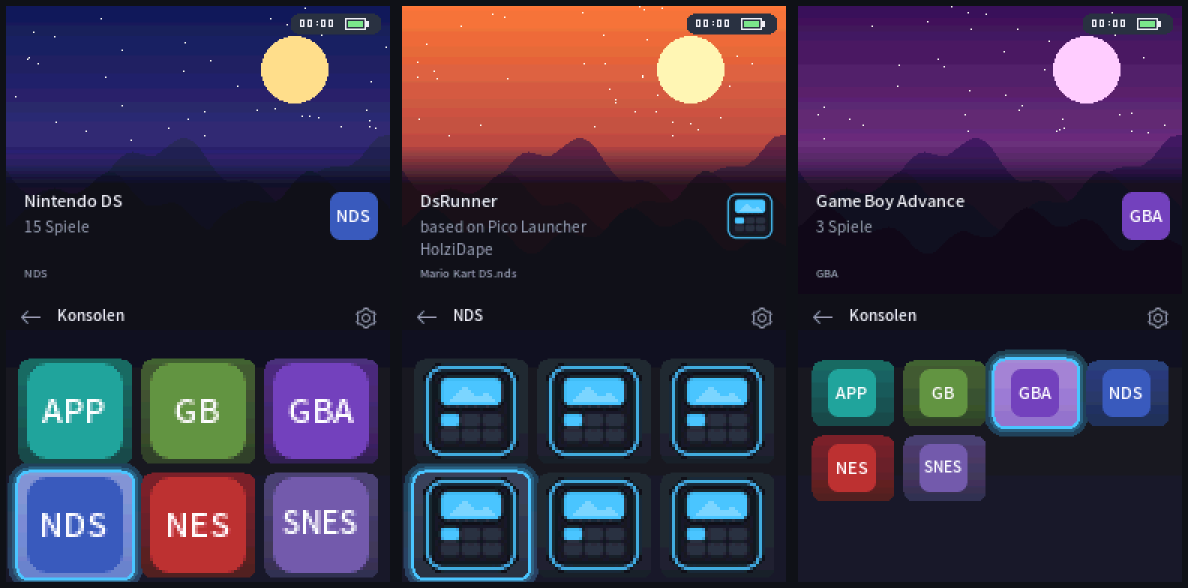
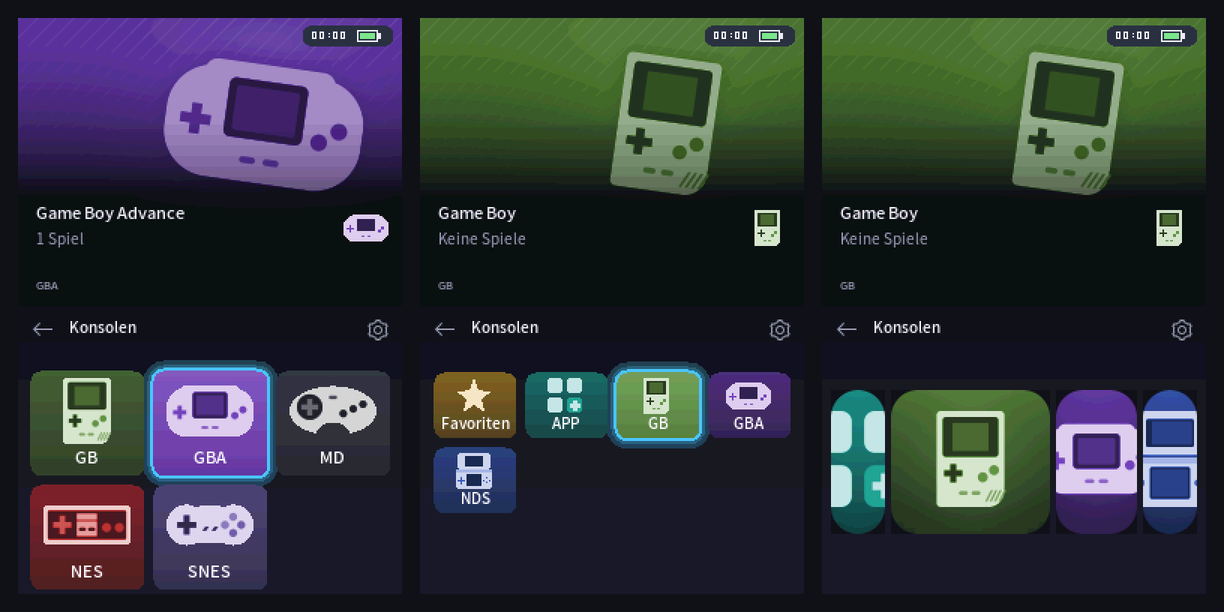
README for everyone: shorter, clearer steps, new screenshot
The README now reads as a guide for any DS user: what DsRunner does, download,
installation, other consoles, controls, game pictures, settings, update and a short
troubleshooting list. Technical details (loader patches, emulator licenses, hotkey
internals) stay in the linked docs. The screenshot shows the console level with the
built-in console pictures in all three views.

Claude-Session: https://claude.ai/code/session_018ba2i77rK9QaTUSsETPJXV

diff --git a/README.md b/README.md
@@ -1,103 +1,82 @@
 # DsRunner
 
-Ein moderner Launcher für den **Nintendo DS Lite** mit der Flashkarte **M3 DS Real**. Er startet beim Einschalten automatisch und zeigt deine Spiele in einem dunklen Kachel-Design, mit großen Artworks auf dem oberen Bildschirm. Spiele startet DsRunner über [Pico Loader](https://github.com/LNH-team/pico-loader).
+Ein moderner Launcher für den **Nintendo DS** (getestet auf dem DS Lite mit der Flashkarte **M3 DS Real**). DsRunner startet beim Einschalten automatisch und zeigt deine Spiele in einem dunklen Kachel-Design: erst die Konsolen, dann ihre Spiele, mit großen Bildern auf dem oberen Bildschirm. Gestartet werden die Spiele über [Pico Loader](https://github.com/LNH-team/pico-loader).
 
-![DsRunner: Konsolen, Spiele und 4×3-Raster](docs/images/DsRunner.png)
+![DsRunner: Konsolen-Ebene im 3×2-Raster, im 4×3-Raster und im Coverflow](docs/images/DsRunner.png)
 
-<sub>Screenshots aus dem Emulator, Artworks sind Testbilder.</sub>
+<sub>Screenshots aus dem Emulator.</sub>
 
 ## Funktionen
 
-- **Startet automatisch** beim Einschalten des DS, ohne Umweg über ein anderes Menü
-- **Zwei Ebenen:** erst die Konsolen (NDS, GBA, …), dann deren Spiele
-- **Drei Ansichten** mit passendem Bildstil: große Kacheln im Raster 3×2 mit vereinfachten Cover-Bildern, kleine Kacheln im Raster 4×3 mit klaren Pixel-Icons und die **CoverFlow** mit den echten Covern. Konsolen in ihrer eigenen Farbe
-- **Artwork oben** für jede Konsole und jedes Spiel, mit weichem Überblenden
-- **Spielanzahl** pro Konsole und Sortierung nach **zuletzt gespielt**
-- **Favoriten** mit X, gesammelt in der Kachel „★ Favoriten“
-- **Weiterspielen** mit START: das zuletzt gespielte Spiel direkt von der Konsolen-Ebene starten
-- Uhr (abschaltbar) und Akkuanzeige, Oberfläche auf Deutsch
-- **GBA und weitere Konsolen** (NES, Game Boy, Master System, Game Gear, Mega Drive, SNES, PC Engine) über Emulatoren, die DsRunner selbst findet. Die Emulatoren für GBA, NES, Game Boy und SNES sind im Paket enthalten; eigene Konsolen über `systems.json`
-- **Cheats** über `usrcheat.dat`
-- **Zurück zu DsRunner aus dem Spiel:** L+R+Unten+B 2 Sekunden halten, Tasten einstellbar (M3-Paket, [Hinweise](#zurück-zu-dsrunner-aus-einem-spiel))
+- **Startet automatisch** beim Einschalten, ohne Umweg über ein anderes Menü (M3 DS Real)
+- **Konsolen und Spiele:** erst NDS, GBA, NES & Co. als Kacheln mit eigenem Bild, dann die Spiele der Konsole
+- **Drei Ansichten:** große Kacheln (3×2), kleine Kacheln (4×3) und Coverflow
+- **Bilder für jedes Spiel** auf dem oberen Bildschirm und in den Kacheln, automatisch geladen mit dem PC-Programm [DsRunner Art](#bilder-für-die-spiele)
+- **Andere Konsolen:** GBA, NES, Game Boy und SNES laufen sofort, die Emulatoren sind im Paket. Master System, Game Gear, Mega Drive und PC Engine mit einem zusätzlichen Download
+- **Favoriten** (Taste X), **zuletzt gespielt** als Sortierung und **Weiterspielen** mit START
+- **Zurück zu DsRunner aus dem Spiel**, ohne den DS auszuschalten
+- Cheats über `usrcheat.dat`, Uhr und Akkuanzeige, Oberfläche auf Deutsch
 
 ## Download
 
 **[⬇ Neueste Version herunterladen](https://github.com/HolziDape/DsRunner/releases/latest)**
 
-Dort gibt es diese Dateien:
-
-| Datei | Für wen |
+| Datei | Wofür |
 |---|---|
-| **`DsRunner_M3DSReal.zip`** | **M3 DS Real**: fertiges Paket für die SD-Karte, inklusive Autostart, Pico Loader (mit Rückkehr aus Spielen) und den [Emulatoren](#emulatoren-für-andere-konsolen) für GBA, NES, Game Boy und SNES |
-| `DsRunner.zip` | andere Flashkarten, siehe [unten](#andere-flashkarten) (mit denselben Emulatoren) |
-| `DsRunnerArt.exe` | PC-Programm für Windows, lädt die [Artworks](#artworks) auf die Karte |
+| **`DsRunner_M3DSReal.zip`** | **M3 DS Real:** komplettes Paket für die SD-Karte, mit Autostart und Emulatoren |
+| `DsRunner.zip` | andere Flashkarten, siehe [unten](#andere-flashkarten) |
+| `DsRunnerArt.exe` | PC-Programm für Windows, lädt die Bilder für deine Spiele auf die Karte |
 
-Was sich in welcher Version geändert hat, steht im **[CHANGELOG](CHANGELOG.md)**. Welche Version auf deiner Karte läuft, siehst du unten rechts im Menü „Anzeige“ (Zahnrad oben rechts).
+Was in welcher Version neu ist, steht im **[Changelog](CHANGELOG.md)**. Die installierte Version siehst du in DsRunner unten rechts im Menü „Anzeige“ (Zahnrad oben rechts).
 
 ## Installation (M3 DS Real)
 
-1. **SD-Karte sichern.** Mindestens alle Spielstände (`.sav`), den Ordner `SYSTEM` und die Datei `SRESET.DAT`. Damit kommst du jederzeit zu YSMenu zurück.
+1. **SD-Karte sichern.** Mindestens alle Spielstände (`.sav`), den Ordner `SYSTEM` und die Datei `SRESET.DAT`. Damit kommst du jederzeit zu deinem alten Menü (z. B. YSMenu) zurück.
 2. `DsRunner_M3DSReal.zip` entpacken.
 3. Den **Inhalt** des entpackten Ordners ins Hauptverzeichnis der SD-Karte kopieren und vorhandene Dateien ersetzen.
-4. Spiele in Ordner pro Konsole legen (siehe nächster Abschnitt).
+4. Deine Spiele in einen Ordner pro Konsole unter `/Games` legen (siehe unten).
 5. Karte in den DS stecken und einschalten. DsRunner startet von selbst.
 
 ### Ordner für die Spiele
 
-DsRunner zeigt die Unterordner von `/Games` als Konsolen an:
+Jeder Unterordner von `/Games` erscheint als eine Konsole:
 
 ```
 SD-Karte
 ├── Games
-│   ├── NDS      ← .nds-Spiele
-│   ├── GBA      ← .gba-Spiele
-│   ├── NES, GB, GBC, SNES  ← Spiele anderer Konsolen (Emulatoren sind dabei)
-│   ├── SMS, GG, MD, PCE    ← brauchen einen Emulator, den du selbst herunterlädst (siehe unten)
-│   └── Apps     ← Homebrew-Programme (eigene .nds-Programme, keine Spiele)
-├── _dsrunner    ← Emulatoren (aus dem Paket), Artworks, Spielverlauf und Favoriten
+│   ├── NDS     ← DS-Spiele (.nds)
+│   ├── GBA     ← Game-Boy-Advance-Spiele (.gba)
+│   ├── NES     ← weitere Konsolen, siehe Tabelle unten
+│   ├── GB
+│   ├── SNES
+│   └── Apps    ← Homebrew-Programme
+├── _dsrunner   ← Emulatoren, Bilder, Favoriten (legt das Paket bzw. DsRunner an)
 ├── _nds
-├── _pico
-└── ...
+└── _pico
 ```
 
-- Ordner mit den Namen `NDS`, `GBA`, `GBC`, `GB`, `NES`, `SNES`, `SMS`, `GG`, `MD`, `PCE` und `Apps` bekommen eine eigene Farbe. Jeder andere Ordner erscheint ebenfalls als Kachel.
-- Gibt es keinen Ordner `/Games`, zeigt DsRunner einfach das Hauptverzeichnis der Karte. Einen anderen Ordner stellst du in `/_pico/settings.json` ein (`libraryPath`).
+- Die Ordnernamen `NDS`, `GBA`, `GB`, `GBC`, `NES`, `SNES`, `SMS`, `GG`, `MD`, `PCE` und `Apps` erkennt DsRunner und zeigt sie mit passendem Bild und eigener Farbe. Andere Ordner erscheinen als normale Kachel.
+- Ohne Ordner `/Games` zeigt DsRunner das Hauptverzeichnis der Karte. Einen anderen Ordner kannst du in den [Einstellungen](#einstellungen) wählen.
 
-### Emulatoren für andere Konsolen
+## Andere Konsolen (Emulatoren)
 
-DS-Spiele startet DsRunner selbst. Für alle anderen Konsolen braucht es einen Emulator (ein DS-Programm). DsRunner findet ihn automatisch, wenn er unter dem richtigen Namen auf der Karte liegt, am besten in **`/_dsrunner/emulators/`** (oder im Hauptverzeichnis). Ohne Emulator bleibt der Ordner der Konsole leer („Keine Spiele“).
+DS-Spiele startet DsRunner direkt. Für andere Konsolen braucht es einen Emulator, ein kleines DS-Programm. DsRunner findet ihn von selbst, wenn er in **`/_dsrunner/emulators/`** liegt. Fehlt der Emulator, bleibt der Ordner der Konsole leer („Keine Spiele“).
 
-**Schon im Paket enthalten** (in `/_dsrunner/emulators/`, in `DsRunner_M3DSReal.zip` und `DsRunner.zip`): die Emulatoren für **GBA, NES, Game Boy / Game Boy Color und SNES**. Du musst dafür nichts herunterladen.
+| Konsole | Ordner | Dateien | Emulator |
+|---|---|---|---|
+| Game Boy Advance | `GBA` | `.gba` | GBARunner2: **im Paket** |
+| NES | `NES` | `.nes`, `.fds` | nesDS: **im Paket** |
+| Game Boy / Color | `GB`, `GBC` | `.gb`, `.gbc` | GameYob: **im Paket** |
+| Super Nintendo | `SNES` | `.sfc`, `.smc` | SNEmulDS: **im Paket** |
+| Master System / Game Gear | `SMS`, `GG` | `.sms`, `.gg` | [S8DS](https://github.com/FluBBaOfWard/S8DS/releases) herunterladen, `S8DS.nds` aus der ZIP-Datei |
+| Mega Drive | `MD` | `.gen`, `.md` | `jEnesisDS.nds` aus dem [Virtual-Console-Add-on von TWiLight Menu++](https://github.com/DS-Homebrew/TWiLightMenu/releases) |
+| PC Engine | `PCE` | `.pce` | [NitroGrafx](https://github.com/FluBBaOfWard/NitroGrafx/releases) herunterladen, `NitroGrafx.nds` aus der ZIP-Datei |
 
-- **GBA-BIOS:** GBARunner2 läuft auch ohne, mit dem originalen BIOS laufen aber mehr Spiele. Das BIOS gehört Nintendo und darf nicht mitgeliefert werden. Wer es hat, legt es selbst als **`/_gba/bios.bin`** auf die Karte.
-- **Master System, Game Gear, Mega Drive, PC Engine:** Diese Emulatoren dürfen wir nicht mitliefern (ihre Autoren nennen keine Lizenz, die das erlaubt). Einmal selbst herunterladen (Links in der Tabelle) und nach `/_dsrunner/emulators/` kopieren.
-- Herkunft, Versionen und Lizenzen der mitgelieferten Emulatoren: `/_dsrunner/emulators/LIZENZEN.txt` im Paket bzw. [licenses/emulators](licenses/emulators/LIZENZEN.txt).
-
-| Konsole | Ordner | Dateien | Emulator | Dateiname auf der Karte | Im Paket |
-|---|---|---|---|---|---|
-| Game Boy Advance | `GBA` | `.gba` | [GBARunner2](https://github.com/Gericom/GBARunner2/releases) | `GBARunner2_arm7dldi_ds.nds`, BIOS optional als `/_gba/bios.bin` | ja (Release v20200812), ohne BIOS |
-| NES / Famicom | `NES` | `.nes`, `.fds` | [nesDS](https://github.com/DS-Homebrew/NesDS/releases) | `nesDS.nds` | ja (2.1) |
-| Game Boy / Game Boy Color | `GB`, `GBC` | `.gb`, `.gbc`, `.sgb` | [GameYob](https://github.com/DS-Homebrew/GameYob) | `GameYob.nds` | ja (aus TWiLight Menu++ v27.25.1) |
-| Master System / Game Gear | `SMS`, `GG` | `.sms`, `.gg` | [S8DS](https://github.com/FluBBaOfWard/S8DS/releases) | `S8DS.nds` (aus der ZIP-Datei) | nein, selbst herunterladen |
-| Mega Drive | `MD` | `.gen`, `.md`, `.smd` | jEnesisDS (aus dem [Virtual-Console-Add-on von TWiLight Menu++](https://github.com/DS-Homebrew/TWiLightMenu/releases), `AddOn-VirtualConsole-DSi-or-Flashcard.7z`) | `jEnesisDS.nds` | nein, selbst herunterladen |
-| Super Nintendo | `SNES` | `.sfc`, `.smc` | SNEmulDS 0.6 | `SNEmulDS-legacy.nds` (dazu `/snemul.cfg`) | ja (aus TWiLight Menu++ v27.25.1) |
-| PC Engine | `PCE` | `.pce`, `.sgx` | [NitroGrafx](https://github.com/FluBBaOfWard/NitroGrafx/releases) | `NitroGrafx.nds` (aus der ZIP-Datei) | nein, selbst herunterladen |
-
-- **TWiLight Menu++ schon installiert?** Dann liegen weitere Emulatoren unter `/_nds/TWiLightMenu/emulators/`. Dort findet DsRunner sie auch. Gibt es einen Emulator an beiden Stellen, nimmt DsRunner den aus `/_dsrunner/emulators/`.
-- Getestet auf dem DS ist bisher nur GBARunner2. Die anderen starten genauso wie in TWiLight Menu++, sind mit DsRunner aber noch nicht ausprobiert. Mega Drive: lädt ein `.md`-Spiel nicht, die Datei in `.gen` umbenennen.
-- Andere Dateinamen, eigene Konsolen und alle Details: [docs/CONFIG.md](docs/CONFIG.md#emulatoren).
-
-### Update auf eine neue Version
-
-Nur eine Datei ersetzen: `DsRunner.nds` aus dem neuen Download in **`/_nds/TWiLightMenu/main.srldr`** umbenennen und die alte Datei damit überschreiben (optional zusätzlich als `/BOOT.NDS`). Spiele, Spielstände und Einstellungen bleiben erhalten.
-
-Steht im [CHANGELOG](CHANGELOG.md) „Pico Loader geändert“, zusätzlich aus `DsRunner_M3DSReal.zip` die Dateien `picoLoader7.bin`, `picoLoader9.bin`, `aplist.bin`, `patchlist.bin` und `savelist.bin` nach `/_pico` kopieren.
-
-Die Emulatoren kommen mit dem kompletten Paket. Fehlen sie auf deiner Karte noch (Installation mit Version 0.2.0 oder älter), einmal den Ordner `_dsrunner/emulators` und die Datei `snemul.cfg` aus dem Paket kopieren. Deine Artworks, Favoriten und der Spielverlauf in `/_dsrunner` bleiben dabei erhalten.
-
-### Zurück zu YSMenu
-
-Die gesicherten Dateien `SYSTEM/g6dsload.1`, `SYSTEM/g6dsload.eng` und `SRESET.DAT` zurückkopieren, dann `boot.*`, `loader.eng` und den Ordner `_system_` löschen.
+- Heruntergeladene Emulatoren nach `/_dsrunner/emulators/` kopieren. Die Dateinamen müssen wie in der Tabelle heißen.
+- **GBA-BIOS:** GBARunner2 läuft auch ohne, mit dem originalen BIOS laufen aber mehr Spiele. Das BIOS darf nicht mitgeliefert werden. Wer es hat, legt es als `/_gba/bios.bin` auf die Karte.
+- Hast du TWiLight Menu++ installiert, findet DsRunner auch dessen Emulatoren unter `/_nds/TWiLightMenu/emulators/`.
+- Lädt ein Mega-Drive-Spiel mit der Endung `.md` nicht, die Datei in `.gen` umbenennen.
+- Herkunft und Lizenzen der mitgelieferten Emulatoren: [licenses/emulators](licenses/emulators/LIZENZEN.txt). Alle Details und eigene Konsolen: [docs/CONFIG.md](docs/CONFIG.md#emulatoren).
 
 ## Bedienung
 
@@ -109,77 +88,88 @@ Die gesicherten Dateien `SYSTEM/g6dsload.1`, `SYSTEM/g6dsload.eng` und `SRESET.D
 | L / R | eine Seite weiterblättern |
 | X | Spiel zu den Favoriten hinzufügen / entfernen |
 | Y | Cheats für das ausgewählte Spiel |
-| START | auf der Konsolen-Ebene: zuletzt gespieltes Spiel weiterspielen |
-| Zahnrad (oben rechts) | Ansicht, Sortierung und Uhr ein/aus wählen |
-| **L + R + Unten + B** (2 s halten, im Spiel) | zurück zu DsRunner (Tasten einstellbar, siehe unten) |
+| START | auf der Konsolen-Ebene: das zuletzt gespielte Spiel weiterspielen |
+| Zahnrad (oben rechts) | Ansicht, Sortierung und Uhr einstellen |
 
 Der Touchscreen funktioniert ebenfalls.
 
 ### Zurück zu DsRunner aus einem Spiel
 
-Im laufenden DS-Spiel **L + R + Unten + B zwei Sekunden lang halten**: der DS startet neu in DsRunner, ohne Aus- und Einschalten. Das geht mit dem Pico Loader aus `DsRunner_M3DSReal.zip` (eigener Build mit Patches, siehe [loader/README.md](loader/README.md)).
+Im laufenden DS-Spiel **L + R + Unten + B zwei Sekunden halten**. Der Bildschirm wird kurz hell, dann startet DsRunner neu.
 
-- **Vorher im Spiel speichern.** Was nicht gespeichert ist, geht verloren, genau wie beim Ausschalten. Einen laufenden Speichervorgang bricht der Hotkey nicht ab, er wartet, bis er fertig ist.
-- **Nicht jedes Spiel reagiert.** Fehlt im Spiel der passende Einsprungpunkt oder der Platz für den Patch, läuft das Spiel ganz normal, nur ohne Hotkey. Dann wie gewohnt ausschalten. Rückmeldungen gerne in die [Kompatibilitätsliste](docs/compat/pico-vs-ysmenu.md).
-- **Abschalten:** in `/_pico/settings.json` `"inGameReset": false` eintragen. DsRunner legt dann vor jedem Spielstart `/_pico/igr.off` an, und Pico Loader baut den Hotkey nicht mehr ein.
-- **Andere Tasten:** in `/_pico/settings.json` z. B. `"inGameResetKeys": "SELECT+START+DOWN"` eintragen. Das hilft vor allem, wenn **L oder R ausgeleiert** sind und nur noch bei festem Druck reagieren (beim DS Lite häufig). Erlaubt sind `A`, `B`, `SELECT`, `START`, `UP`, `DOWN`, `LEFT`, `RIGHT`, `L`, `R` (auch `OBEN`, `UNTEN`, `LINKS`, `RECHTS`), mindestens 3 Tasten, Groß-/Kleinschreibung egal. **X und Y gehen nicht**, die kann der Hotkey-Code im Spiel nicht lesen. Ungültige Angaben ergeben wieder L+R+Unten+B. Empfehlungen ohne L/R:
-  - `SELECT+START+DOWN`: braucht kaum ein Spiel gleichzeitig, START öffnet höchstens kurz das Pausenmenü.
-  - `SELECT+DOWN+B`: falls ein Spiel START+SELECT selbst belegt.
-  - Nicht empfohlen: `L+R+START+SELECT`, das ist in vielen Spielen der eingebaute Soft-Reset (startet das Spiel neu statt DsRunner).
+- **Vorher im Spiel speichern.** Nicht Gespeichertes geht verloren, wie beim Ausschalten. Ein laufender Speichervorgang wird nicht abgebrochen.
+- **Nicht jedes Spiel unterstützt das.** Dann läuft das Spiel ganz normal weiter, nur ohne diese Funktion.
+- **Andere Tasten**, z. B. wenn L oder R schlecht reagieren: in den [Einstellungen](#einstellungen) `"inGameResetKeys": "SELECT+START+DOWN"` eintragen.
+- Funktioniert mit dem Pico Loader aus `DsRunner_M3DSReal.zip`. Technische Details und Fehlersuche: [loader/README.md](loader/README.md).
 
-  Weil die Tasten 2 s gehalten werden müssen, löst keine dieser Kombinationen versehentlich aus. Welche Tasten gerade gelten, steht in `/_pico/igr-log.txt` (Zeile `keys:`).
-- Homebrew kehrt wie bisher über das eigene „Beenden“ zurück.
+## Bilder für die Spiele
 
-## Artworks
+Die Bilder für den oberen Bildschirm, die Kacheln und den Coverflow lädt das PC-Programm **DsRunner Art** automatisch:
 
-Die großen Bilder für den oberen Bildschirm besorgt das PC-Programm **DsRunner Art** automatisch: SD-Karte einstecken, Programm starten, **„Bilder aktualisieren“** klicken. Es erkennt die Spiele (DS und GBA am Game-Code, andere Konsolen an Prüfsumme oder Dateiname), lädt Titelbilder, Screenshots oder Cover von [libretro-thumbnails](https://github.com/libretro-thumbnails) und erzeugt Bilder für die Konsolen-Ordner. Außerdem legt es für jedes Spiel die Bilder der drei Ansichten an: ein vereinfachtes **Kachel-Bild** für das 3×2-Raster, das echte **Cover** für die CoverFlow und für Spiele ohne eigenes Icon (GBA & Co.) ein kleines **Pixel-Icon** für das 4×3-Raster. Eigene Bilder haben Vorrang.
+1. SD-Karte in den PC stecken.
+2. `DsRunnerArt.exe` aus dem [Download](https://github.com/HolziDape/DsRunner/releases/latest) starten.
+3. Laufwerk wählen und **„Bilder aktualisieren“** klicken.
 
-- Windows: `DsRunnerArt.exe` aus dem [Release](https://github.com/HolziDape/DsRunner/releases/latest), oder mit Python aus `tools/dsrunner-art`
-- Anleitung, Optionen und Fehlerbehebung: **[docs/ART-TOOL.md](docs/ART-TOOL.md)**
+Das Programm erkennt deine Spiele und lädt passende Titelbilder und Cover aus [libretro-thumbnails](https://github.com/libretro-thumbnails). Es läuft unter Windows, mit Python auch unter Linux und macOS. Anleitung und Optionen: **[docs/ART-TOOL.md](docs/ART-TOOL.md)**.
 
-Von Hand geht es auch: ein BMP mit **256 × 192 Pixeln und 256 Farben** unter `/_dsrunner/art` ablegen, im selben Pfad wie das Spiel:
+**Eigene Bilder** gehen auch: ein BMP mit 256 × 192 Pixeln und 256 Farben unter `/_dsrunner/art` ablegen, im selben Pfad wie das Spiel, z. B. `/_dsrunner/art/Games/NDS/Mario Kart DS.bmp` für `/Games/NDS/Mario Kart DS.nds`. Dafür reicht Paint („Speichern unter“ → 256-Farben-Bitmap). Eigene Bilder haben immer Vorrang und werden von DsRunner Art nicht überschrieben.
 
-| Für | Datei |
+## Einstellungen
+
+Die meisten Einstellungen (Ansicht, Sortierung, Uhr) gibt es im Menü unter dem Zahnrad. Weitere stehen in der Datei `/_pico/settings.json` auf der SD-Karte. Sie lässt sich mit jedem Texteditor bearbeiten:
+
+| Einstellung | Bedeutung |
 |---|---|
-| Konsole `/Games/NDS` | `/_dsrunner/art/Games/NDS.bmp` |
-| Spiel `/Games/NDS/Mario Kart DS.nds` | `/_dsrunner/art/Games/NDS/Mario Kart DS.bmp` |
+| `"libraryPath": "/Games"` | Ordner mit den Konsolen-Ordnern |
+| `"inGameReset": false` | „Zurück zu DsRunner aus dem Spiel“ abschalten |
+| `"inGameResetKeys": "SELECT+START+DOWN"` | andere Tasten dafür: mindestens 3 aus A, B, SELECT, START, UP, DOWN, LEFT, RIGHT, L, R (nicht X/Y) |
 
-Dafür reicht Paint: Bild auf 256 × 192 Pixel bringen und mit „Speichern unter“ als **256-Farben-Bitmap** speichern. Von Hand abgelegte Bilder überschreibt DsRunner Art nicht.
+Beim Bearbeiten auf die Kommas zwischen den Zeilen achten. Alle Einstellungen: **[docs/CONFIG.md](docs/CONFIG.md)**.
 
-Alle Einstellungen und Dateiformate stehen in **[docs/CONFIG.md](docs/CONFIG.md)**.
+## Update auf eine neue Version
+
+1. Aus dem neuen `DsRunner_M3DSReal.zip` die Datei `_nds/TWiLightMenu/main.srldr` auf die Karte kopieren und die alte ersetzen.
+2. Steht im [Changelog](CHANGELOG.md) bei der Version **„Pico Loader geändert“**, zusätzlich die fünf `.bin`-Dateien aus `_pico` kopieren.
+3. Fehlen dir noch die Emulatoren, einmal den Ordner `_dsrunner/emulators` und die Datei `snemul.cfg` kopieren.
+
+Spiele, Spielstände, Einstellungen, Bilder und Favoriten bleiben dabei erhalten.
 
 ## Andere Flashkarten
 
 DsRunner läuft überall, wo Pico Loader läuft. Getestet ist bisher nur die M3 DS Real.
 
-1. `DsRunner.zip` entpacken und den Inhalt (`DsRunner.nds`, `_pico`, `_dsrunner` mit den Emulatoren, `snemul.cfg`) ins Hauptverzeichnis der SD-Karte kopieren.
+1. `DsRunner.zip` entpacken und den Inhalt ins Hauptverzeichnis der SD-Karte kopieren.
 2. Bei [Pico Loader](https://github.com/LNH-team/pico-loader/releases) die Dateien für deine Flashkarte herunterladen und `aplist.bin`, `savelist.bin`, `patchlist.bin`, `picoLoader7.bin` und `picoLoader9.bin` nach `/_pico` kopieren.
-3. `DsRunner.nds` aus dem Menü deiner Flashkarte starten. Ein Autostart ist für andere Karten nicht vorbereitet.
+3. `DsRunner.nds` aus dem Menü deiner Flashkarte starten.
 
-Mit dem offiziellen Pico Loader gibt es keine Rückkehr aus Spielen. Wer sie ausprobieren will, baut den Loader aus [loader/](loader/README.md) für seine Karte (`PICO_PLATFORM=R4 loader/build.sh`, Plattformnamen wie bei Pico Loader). Getestet ist das nicht.
+Einen Autostart gibt es nur für die M3 DS Real. Mit dem offiziellen Pico Loader fehlt außerdem „Zurück zu DsRunner aus dem Spiel“.
 
-## Stand
+## Zurück zum alten Menü (M3 DS Real)
 
-DsRunner ist in Entwicklung. Was fertig ist und was als Nächstes kommt, steht in **[docs/PLAN.md](docs/PLAN.md)**, die Änderungen pro Version im **[CHANGELOG](CHANGELOG.md)**. Fehler und Wünsche gerne als [Issue](https://github.com/HolziDape/DsRunner/issues).
+Die gesicherten Dateien `SYSTEM/g6dsload.1`, `SYSTEM/g6dsload.eng` und `SRESET.DAT` zurückkopieren, dann `boot.*`, `loader.eng` und den Ordner `_system_` löschen.
 
-## Selbst bauen
+## Probleme?
 
-Mit Docker (unter Windows in WSL2):
+- **Ein Konsolen-Ordner zeigt „Keine Spiele“:** Der Emulator fehlt oder heißt anders, siehe [Andere Konsolen](#andere-konsolen-emulatoren).
+- **Ein Spiel reagiert nicht auf „Zurück zu DsRunner“:** In `/_pico/igr-log.txt` steht nach dem Spielstart, warum. Siehe [loader/README.md](loader/README.md).
+- **Ein Spiel läuft schlechter als mit einem anderen Menü:** gerne melden, siehe [Kompatibilitätsliste](docs/compat/pico-vs-ysmenu.md).
+- Fehler und Wünsche als [Issue](https://github.com/HolziDape/DsRunner/issues).
+
+## Für Entwickler
+
+DsRunner wird mit [BlocksDS](https://blocksds.skylyrac.net/) in Docker gebaut (unter Windows in WSL2):
 
 ```sh
 git clone --recursive https://github.com/HolziDape/DsRunner.git
 cd DsRunner
 ./build.sh            # → DsRunner.nds
-./build.sh package    # → fertiges SD-Paket für die M3 DS Real in sd-package/
-loader/build.sh       # → Pico Loader mit Rückkehr aus Spielen in loader/out/ (package ruft das bei Bedarf selbst auf)
+./build.sh package    # → komplettes SD-Paket für die M3 DS Real in sd-package/
 ```
 
-Details, Test im Emulator und Pico-Updates: **[docs/DEVELOPMENT.md](docs/DEVELOPMENT.md)**.
+Details, Test im Emulator, Pico Loader und Releases: [docs/DEVELOPMENT.md](docs/DEVELOPMENT.md), [loader/README.md](loader/README.md), [docs/RELEASE.md](docs/RELEASE.md). Stand und Pläne: [docs/PLAN.md](docs/PLAN.md).
 
 ## Danke & Lizenz
 
-DsRunner ist ein Fork von **[Pico Launcher](https://github.com/LNH-team/pico-launcher)** und nutzt **[Pico Loader](https://github.com/LNH-team/pico-loader)**, beide vom [LNH team](https://github.com/LNH-team): [@Gericom](https://github.com/Gericom), [@XLuma](https://github.com/XLuma), [@Dartz150](https://github.com/Dartz150), [@lifehackerhansol](https://github.com/lifehackerhansol). Die Rückkehr aus Spielen und der DLDI-Cache im Pico Loader stammen von [@danyocom](https://github.com/danyocom/pico-loader) (Branches `igr-hooks`, `dldi-cache`). Die Autostart-Dateien für die M3 DS Real stammen aus [TWiLight Menu++](https://github.com/DS-Homebrew/TWiLightMenu). Icons von [icons8](https://icons8.com/).
+DsRunner ist ein Fork von **[Pico Launcher](https://github.com/LNH-team/pico-launcher)** und nutzt **[Pico Loader](https://github.com/LNH-team/pico-loader)**, beide vom [LNH team](https://github.com/LNH-team): [@Gericom](https://github.com/Gericom), [@XLuma](https://github.com/XLuma), [@Dartz150](https://github.com/Dartz150), [@lifehackerhansol](https://github.com/lifehackerhansol). „Zurück zu DsRunner aus dem Spiel“ und der DLDI-Cache im Pico Loader stammen von [@danyocom](https://github.com/danyocom/pico-loader). Die Autostart-Dateien für die M3 DS Real und einige Emulatoren stammen aus [TWiLight Menu++](https://github.com/DS-Homebrew/TWiLightMenu). Icons von [icons8](https://icons8.com/).
 
 Lizenz: Zlib, siehe `LICENSE.txt`. Weitere Lizenzen im Ordner `licenses`, die der mitgelieferten Emulatoren in `licenses/emulators`.
-
-Die englische Dokumentation von Pico Launcher (Themes, Cheats, eigene Icons) liegt weiterhin unter [docs/](docs/Usage.md). Sie gilt größtenteils auch für DsRunner.
